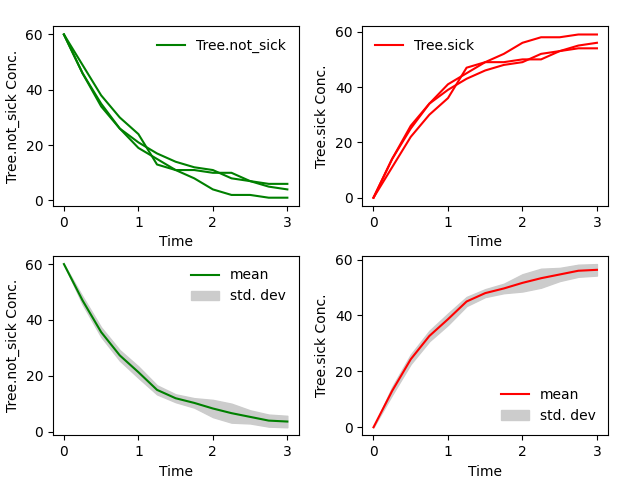
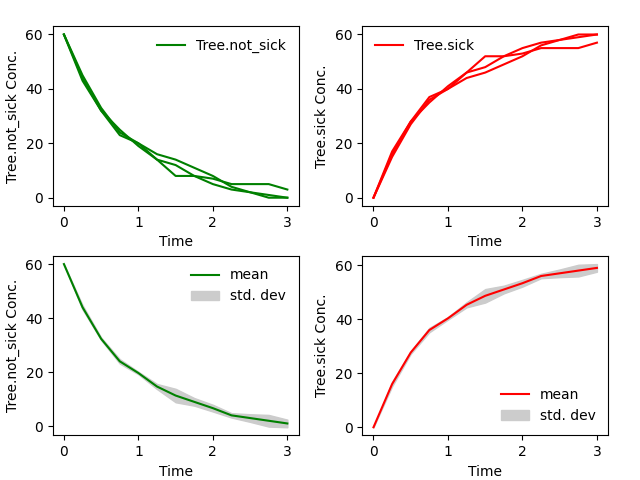
Fixed bug with 2D models with units on rates

diff --git a/test_script.py b/test_script.py
@@ -4,7 +4,7 @@
 
 import pytest
 import mobspy
-from mobspy import (BaseSpecies, Simulation, New, u, ModelParameters, simlog, Assign, Rev, All, set_counts, Zero,
+from mobspy import (BaseSpecies, Simulation, New, u, ModelParameters, simlog, Assign, Rev, All, set_counts,
                     basiCO_parameter_estimation)
 # from tellurium import loada as te_load_anti
 import numpy as np
@@ -769,7 +769,7 @@ def test_bi_dimensional_rates():
 def test_dimension_in_function_only():
     A = BaseSpecies()
 
-    A + A >> 3 * A[lambda: 1 * u.milliliter / u.second]
+    A + A >> 3 * A [lambda: 1 * u.milliliter / u.second]
 
     A(1)
     S = Simulation(A)
@@ -1942,7 +1942,7 @@ def test_update_parameter_for_multi_model():
 
     k1 = ModelParameters([1, 2, 3])
 
-    A >> Zero [2*k1]
+    A >> mobspy.Zero [2*k1]
 
     A(100)
     S1 = Simulation(A)
@@ -1952,7 +1952,7 @@ def test_update_parameter_for_multi_model():
     # print(S.generate_sbml()[0])
 
     A.reset_reactions()
-    B >> Zero [1]
+    B >> mobspy.Zero [1]
 
     B(200)
     S2 = Simulation(A | B)
@@ -1974,7 +1974,7 @@ def test_update_parameter_through_str():
     A = BaseSpecies()
     k1 = ModelParameters(0.00000001)
 
-    A >> Zero [k1]
+    A >> mobspy.Zero [k1]
 
     S = Simulation(A)
     S.level = -1
@@ -1989,7 +1989,7 @@ def test_update_multiple_parameters_in_expression():
     A = BaseSpecies()
     k1, k2 = ModelParameters(0.00000001, 10)
 
-    A >> Zero [k1 / (10 + k2 ** 4)]
+    A >> mobspy.Zero [k1 / (10 + k2 ** 4)]
 
     S = Simulation(A)
     S.level = -1
@@ -2005,7 +2005,7 @@ def test_update_parameter_with_unit():
     A = BaseSpecies()
     k1 = ModelParameters(1 / u.h)
 
-    A >> Zero[k1]
+    A >> mobspy.Zero[k1]
 
     S = Simulation(A)
     S.level = -1
@@ -2024,7 +2024,7 @@ def test_species_value_modification():
     B.b1, B.b2
     k1 = ModelParameters(1)
 
-    B >> Zero[k1]
+    B >> mobspy.Zero[k1]
 
     B(100), B.b2(100)
     S = Simulation(B)
@@ -2042,7 +2042,7 @@ def test_all_value_modification():
     B.b1, B.b2
     k1 = ModelParameters(1)
 
-    B >> Zero[k1]
+    B >> mobspy.Zero[k1]
 
     B(100), B.b2(100)
     S = Simulation(B)
@@ -2059,11 +2059,26 @@ def test_new_reversible_reaction_notation():
     A = BaseSpecies()
     k1, k2 = ModelParameters(1, 1)
 
-    A >> Zero[1, 1]
-    A >> Zero[1 / (k1 + k2), k1]
+    A >> mobspy.Zero[1, 1]
+    A >> mobspy.Zero[1 / (k1 + k2), k1]
 
     A >> 2 * A[10]
 
     S = Simulation(A)
     S.level = -1
     assert compare_model(S.compile(), 'test_tools/model_63.txt')
+
+
+def test_2D_reaction_with_units():
+
+    Color, Location = BaseSpecies()
+    Color.red, Color.blue
+    Location.here, Location.there
+    Something = Color * Location
+
+    2 * Something >> 3 * Something[
+        lambda r1, r2: 1 * u.decimeter ** 2 / u.h if Location(r1) == Location(r2) else 0.5 * u.decimeter ** 2 / u.h]
+
+    S = Simulation(Something)
+    S.volume = 1 * u.m ** 2
+    assert compare_model(S.compile(), 'test_tools/model_65.txt')

diff --git a/mobspy/modules/mobspy_expressions.py b/mobspy/modules/mobspy_expressions.py
@@ -806,7 +806,7 @@ class MobsPyExpression(Specific_Species_Operator, ExpressionDefiner):
         return super().__getattr__(item)
 
     # Write string operation return and unit
-    def generate_string_operation(self, skip_check=False, reaction_order=None):
+    def generate_string_operation(self, skip_check=False, reaction_order=None, dimension=None):
         """
             Converts the expression from what has been stored to a string format for the sbml file
 
@@ -815,10 +815,11 @@ class MobsPyExpression(Specific_Species_Operator, ExpressionDefiner):
         """
         ur = u.unit_registry_object
 
-        if self._dimension is None:
-            dimension = 3
-        else:
-            dimension = self._dimension
+        if dimension is None:
+            if self._dimension is None:
+                dimension = 3
+            else:
+                dimension = self._dimension
 
         operation = str(self._operation)
 
@@ -829,9 +830,9 @@ class MobsPyExpression(Specific_Species_Operator, ExpressionDefiner):
             self._count_in_expression = True
 
         if self._has_units == 'T' and self._expression_variables == set() and reaction_order is not None:
-            if self._unit_count_op.units == (1 / ur.second):
+            if self._unit_count_op.units == (1 / ur.second).units:
                 return operation, True
-            elif self._unit_conc_op.units == (1*ur.decimeter**(3*reaction_order)/(ur.second*ur.decimeter**dimension)):
+            elif self._unit_conc_op.units == (ur.decimeter**(dimension * (reaction_order - 1)) / ur.second):
                 return operation, False
 
         c1 = self._has_units == 'T'

diff --git a/mobspy/modules/function_rate_code.py b/mobspy/modules/function_rate_code.py
@@ -55,7 +55,6 @@ def extract_reaction_rate(combination_of_reactant_species, reactant_string_list
                                                      reaction_rate_function, type_of_model, is_count)
 
     elif function_rate_arguments is not None:
-
         # [''] means that it is a function that takes no arguments (empty signature)
         if function_rate_arguments != ['']:
             arguments = prepare_arguments_for_callable(combination_of_reactant_species,
@@ -87,12 +86,14 @@ def extract_reaction_rate(combination_of_reactant_species, reactant_string_list
 
             # Having an expression variable implies it is a constructed expression - not mass action
             if len(rate._expression_variables) > 0:
-                reaction_rate_string, _ = rate.generate_string_operation(skip_check=skip_check)
+                reaction_rate_string, _ = rate.generate_string_operation(skip_check=skip_check, dimension=dimension)
 
             # Having no expression variables implies it is a constant for mass - action kinetics.
             elif len(rate._expression_variables) == 0:
+
                 rate_for_mass_action, is_count = \
-                    rate.generate_string_operation(reaction_order=len(reactant_string_list), skip_check=skip_check)
+                    rate.generate_string_operation(reaction_order=len(reactant_string_list), dimension=dimension,
+                                                   skip_check=skip_check)
                 parameters_in_rate = rate._parameter_set
                 parameters_in_reaction = parameters_in_reaction.union(parameters_in_rate)
 

diff --git a/for_local_use.py b/for_local_use.py
@@ -2,19 +2,19 @@ from mobspy import *
 from mobspy import modules
 
 if __name__ == '__main__':
+    from mobspy import *
 
-    # TODO: Ask Matthias about removed tests
 
     # Replace parameters using units
-    A = BaseSpecies()
-    k1, k2 = ModelParameters(1, 1)
+    Color, Location = BaseSpecies()
+    Color.red, Color.blue
+    Location.here, Location.there
+    Something = Color*Location
 
-    A >> Zero [1, 1]
-    A >> Zero [1/(k1 + k2), k1]
+    2*Something >> 3*Something [lambda r1, r2: 1*u.decimeter**2/u.h if Location(r1) == Location(r2) else 0.5*u.decimeter**2/u.h]
 
-    A >> 2*A [10]
-
-    S = Simulation(A)
+    S = Simulation(Something)
+    S.volume = 1*u.m**2
     print(S.compile())
 
     # print(A.get_characteristics())

diff --git a/debugging_script.py b/debugging_script.py
@@ -33,7 +33,8 @@ test_list = [test_model_1, test_model_2, test_model_3, test_model_4, test_model_
              test_assignment_similar_species, test_blocked_names, test_blocked_names_2,
              test_update_parameter_for_multi_model, test_update_parameter_through_str,
              test_update_multiple_parameters_in_expression, test_update_parameter_with_unit,
-             test_species_value_modification, test_all_value_modification, test_new_reversible_reaction_notation]
+             test_species_value_modification, test_all_value_modification, test_new_reversible_reaction_notation,
+             test_2D_reaction_with_units]
 
 # test_no_species_in_asg
 # test_illegal_unit_op_in_assignment
